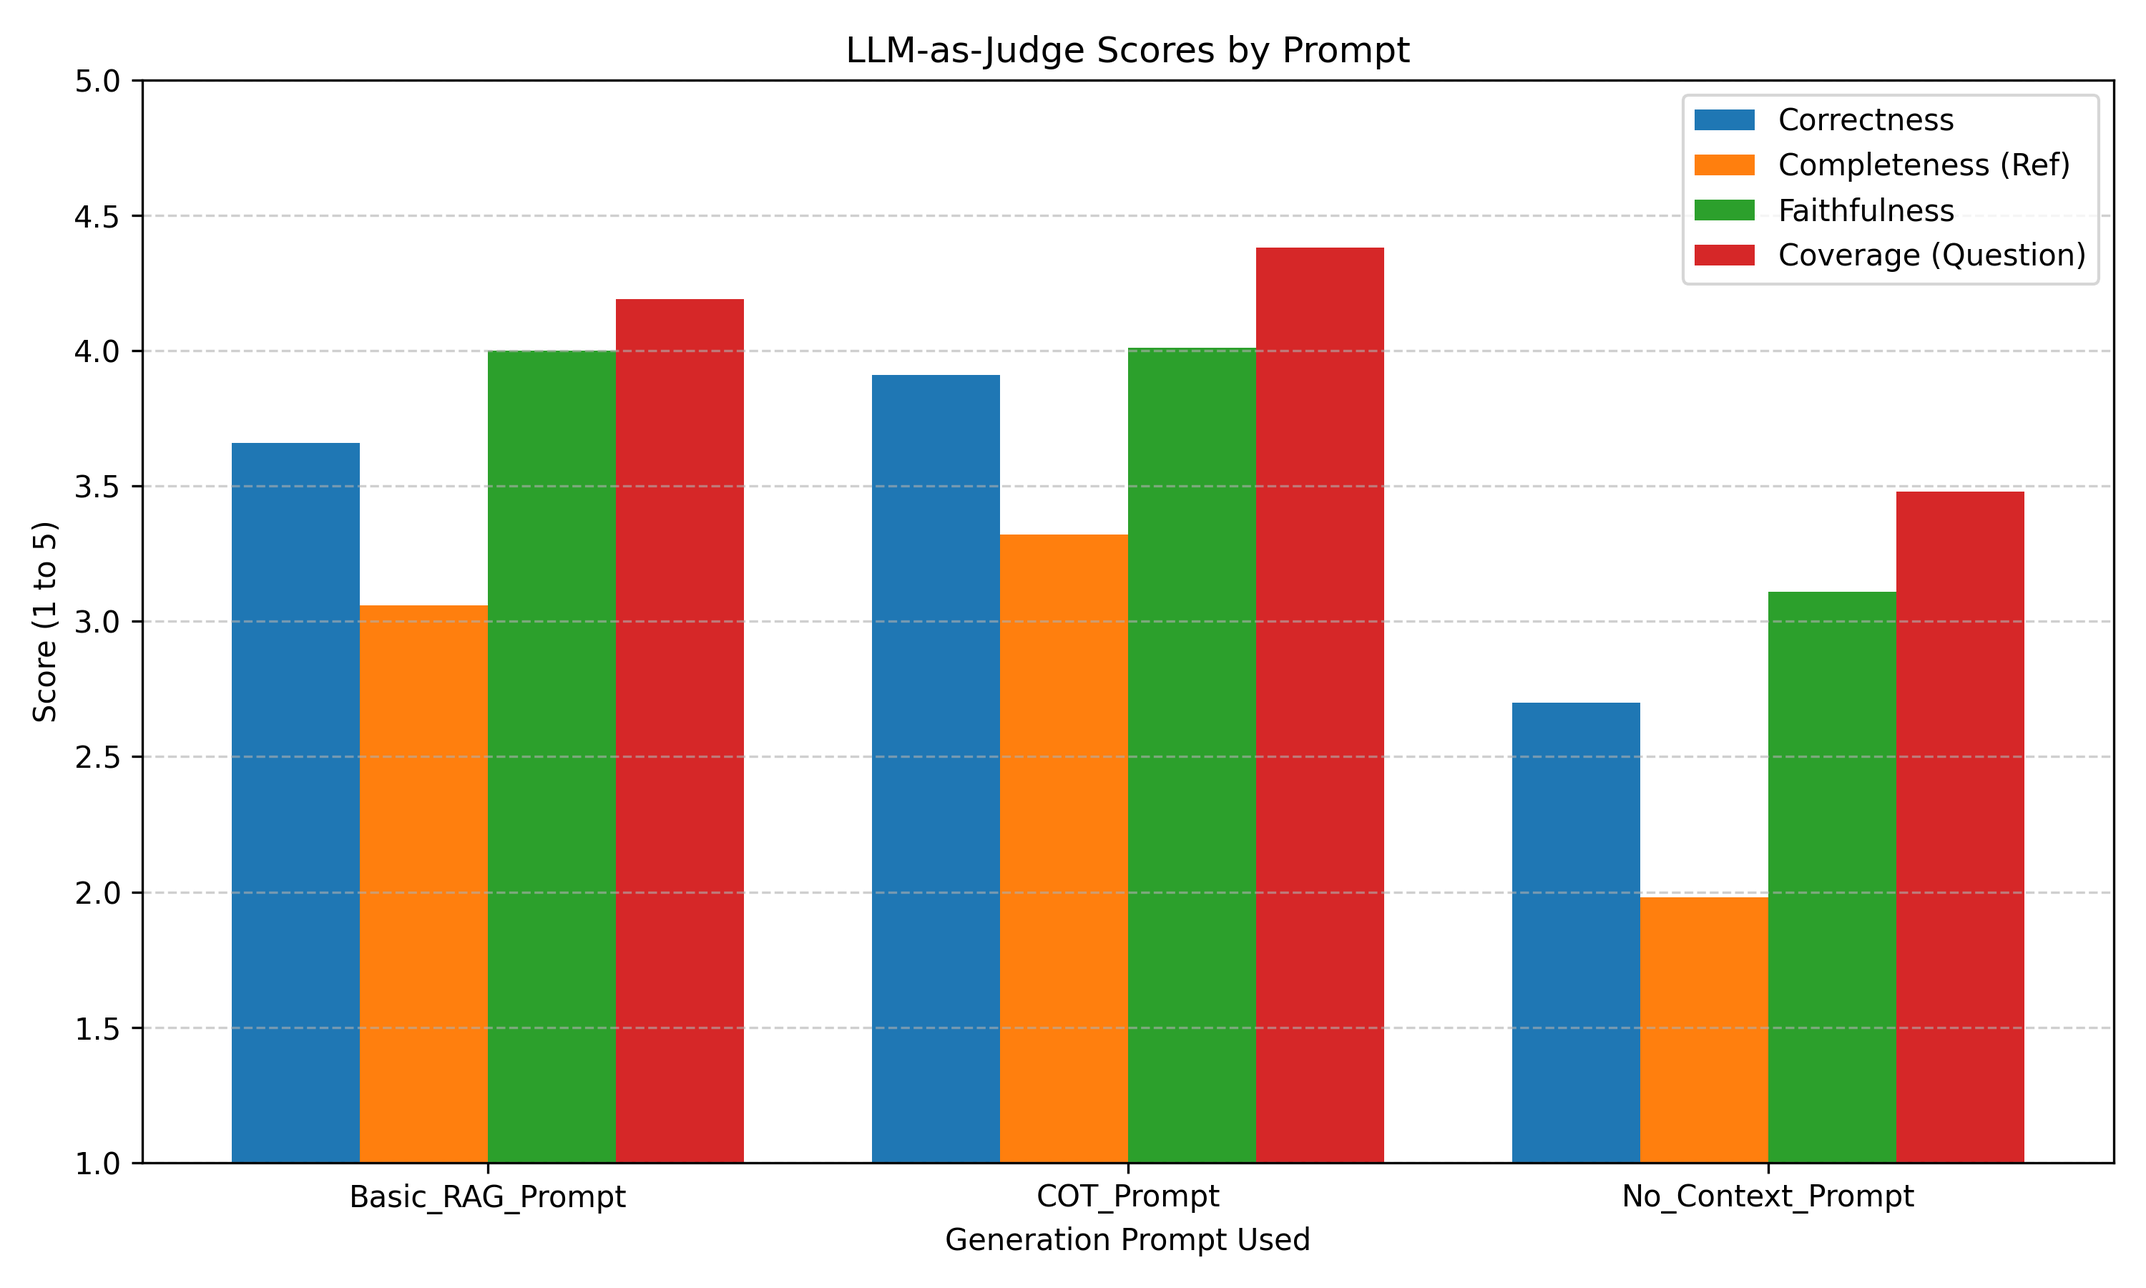
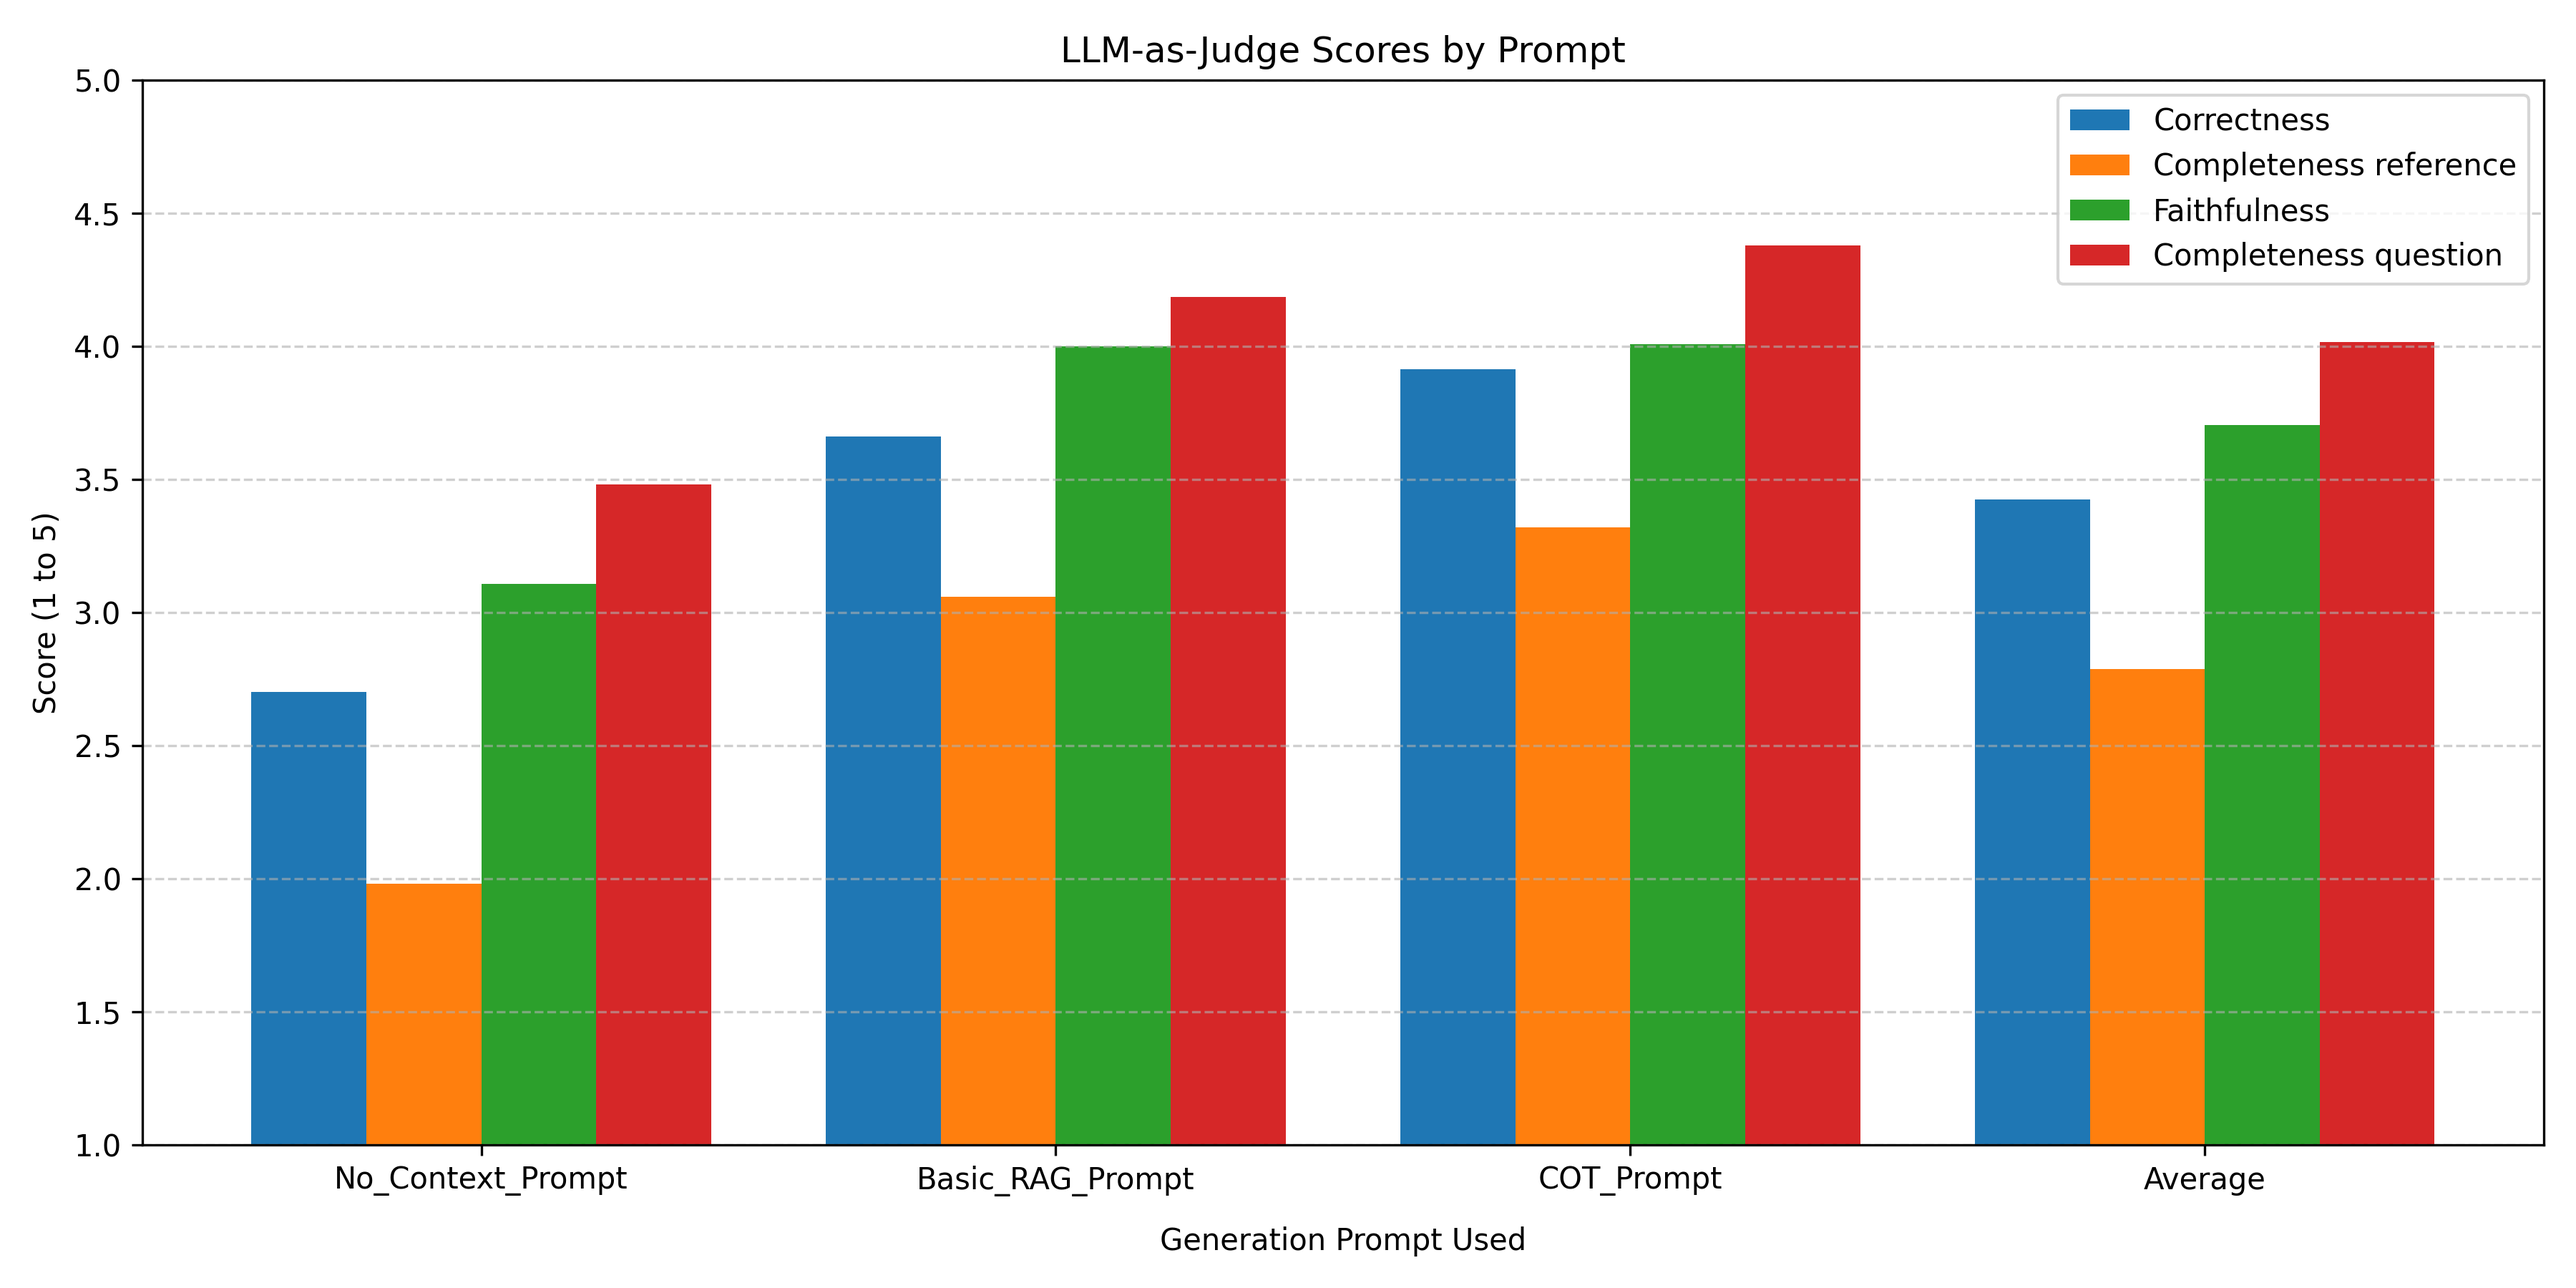
Added avgs and changed order of prompts in bargraph for prompts

diff --git a/score_prompt_plot.py b/score_prompt_plot.py
@@ -43,41 +43,94 @@
 # # plt.show()  # Uncomment this if running locally with GUI support
 
 
+# import matplotlib.pyplot as plt
+# import numpy as np
+# import pandas as pd  # Library to read CSV files
+
+# # CHANGE ACCORDING TO FILE YOU WANT TO PLOT
+# csv_path = "prompt_performance_summary_Qwen3-0.6B_prompt_v2.csv"
+# df = pd.read_csv(csv_path)
+
+# # Extract data
+# prompts = df["prompt"].tolist()
+# metrics = ["correctness", "completeness_reference", "faithfulness", "completeness_question"]
+# x = np.arange(len(prompts))
+# width = 0.2
+
+# # Set up the plot
+# fig, ax = plt.subplots(figsize=(10, 6))
+
+# # Plot each metric as a group of bars
+# for i, metric in enumerate(metrics):
+#     offset = (i - 1.5) * width  # Adjust the offset for grouping
+#     ax.bar(x + offset, df[metric], width, label=metric.replace("_", " ").capitalize())
+
+# # Formatting
+# ax.set_xlabel('Generation Prompt Used')
+# ax.set_ylabel('Score (1 to 5)')
+# ax.set_title('LLM-as-Judge Scores by Prompt')
+# ax.set_xticks(x)
+# ax.set_xticklabels(prompts, rotation=15)
+# ax.set_ylim(1, 5)
+# ax.legend()
+# ax.grid(True, axis='y', linestyle='--', alpha=0.6)
+
+# plt.tight_layout()
+
+
+# plt.savefig("prompt_bargraph_Qwen3-0.6B_prompt_v2.png", dpi=300) # CHANGE OUTPUT FILE NAME
+
+# print("Done!")
+
 import matplotlib.pyplot as plt
 import numpy as np
-import pandas as pd  # Library to read CSV files
+import pandas as pd # Library to read CSV files
+
 
 # CHANGE ACCORDING TO FILE YOU WANT TO PLOT
 csv_path = "prompt_performance_summary_Qwen3-0.6B_prompt_v2.csv"
 df = pd.read_csv(csv_path)
 
-# Extract data
-prompts = df["prompt"].tolist()
+# Reorder prompts manually
+desired_order = ["No_Context_Prompt", "Basic_RAG_Prompt", "COT_Prompt"]
+df = df.set_index("Generation Prompt Used").loc[desired_order].reset_index()
+
+# Add average row
+average_row = {
+    "Generation Prompt Used": "Average",
+}
 metrics = ["correctness", "completeness_reference", "faithfulness", "completeness_question"]
+for metric in metrics:
+    average_row[metric] = df[metric].mean()
+
+df = pd.concat([df, pd.DataFrame([average_row])], ignore_index=True)
+
+# Prepare data for plotting
+prompts = df["Generation Prompt Used"].tolist()
 x = np.arange(len(prompts))
 width = 0.2
 
-# Set up the plot
-fig, ax = plt.subplots(figsize=(10, 6))
+# Create the plot
+fig, ax = plt.subplots(figsize=(12, 6))
+
 
 # Plot each metric as a group of bars
 for i, metric in enumerate(metrics):
-    offset = (i - 1.5) * width  # Adjust the offset for grouping
-    ax.bar(x + offset, df[metric], width, label=metric.replace("_", " ").capitalize())
+    offset = (i - 1.5) * width # Adjust the offset for grouping
+    label = metric.replace("_", " ").capitalize()
+    ax.bar(x + offset, df[metric], width, label=label)
 
 # Formatting
-ax.set_xlabel('Generation Prompt Used')
+ax.set_xlabel('Generation Prompt Used',labelpad=10)
 ax.set_ylabel('Score (1 to 5)')
 ax.set_title('LLM-as-Judge Scores by Prompt')
 ax.set_xticks(x)
-ax.set_xticklabels(prompts, rotation=15)
+ax.set_xticklabels(prompts, rotation=0)
 ax.set_ylim(1, 5)
 ax.legend()
 ax.grid(True, axis='y', linestyle='--', alpha=0.6)
 
 plt.tight_layout()
-
-
-plt.savefig("prompt_bargraph_Qwen3-0.6B_prompt_v2.png", dpi=300) # CHANGE OUTPUT FILE NAME
+plt.savefig("prompt_bargraph_Qwen3-0.6B_prompt_v2.png", dpi=300) # CHANGE OUTPUT FILE NAME ACCORDING TO YOU ARE TESTING
 
 print("Done!")
